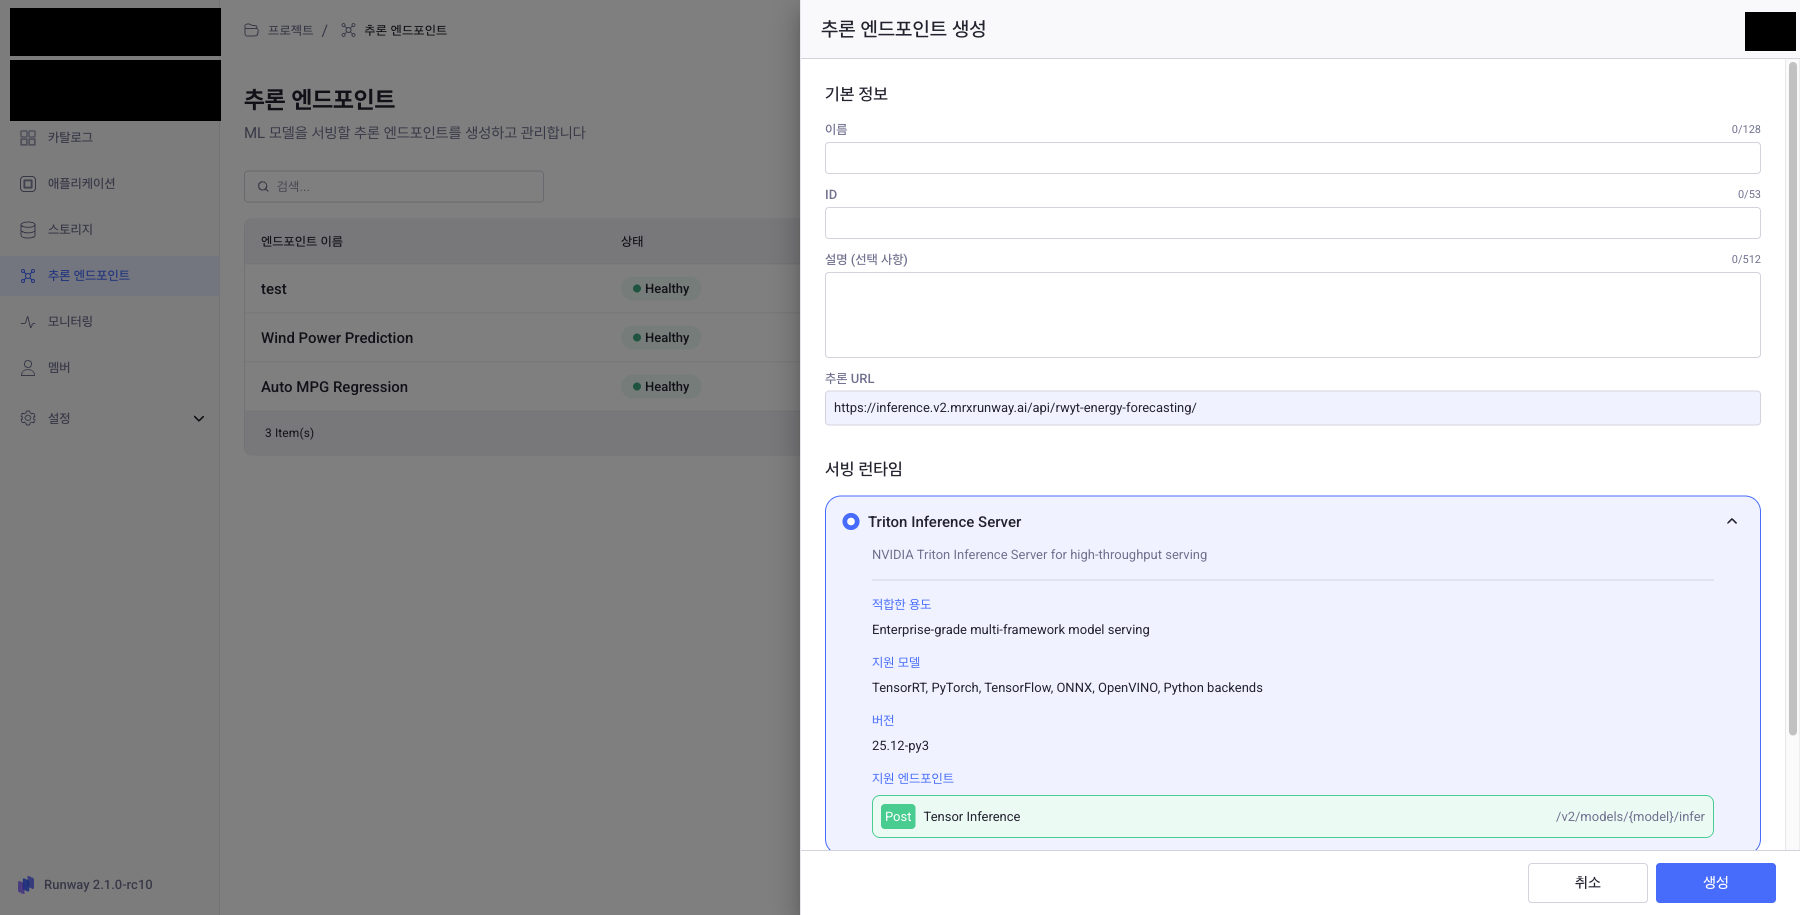
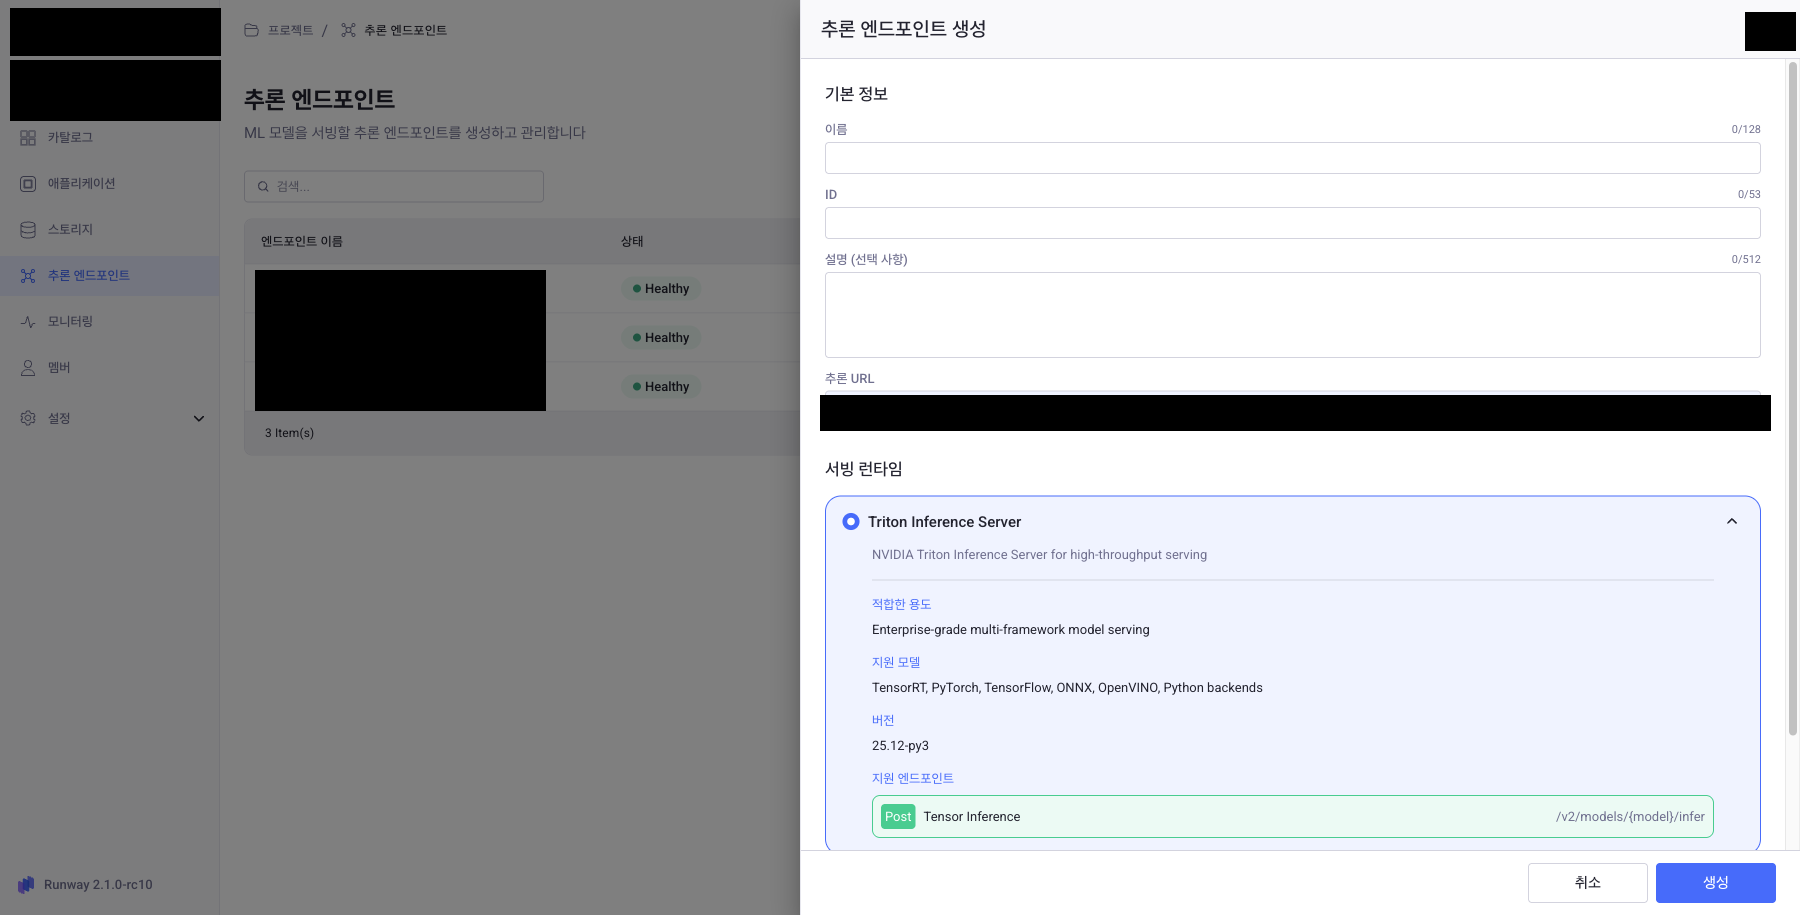
fix(wind-power): address PR #13 review — repo-root cleanup + 06 PNG re-mask + WALKTHROUGH 3-var flow
Must-fix 3건:
1. 06-inference-endpoint-create-form.png: 추론 URL 필드에 inference.v2.mrxrunway.ai/api/rwyt-energy-forecasting/ 노출돼있어 재마스킹 + 좌측 백그라운드 엔드포인트 이름 컬럼도 마스킹
2. 저장소 루트 .gitea/workflows/{build-image,sync-dag}.yml 삭제 — 사용되지 않는 wind_power_prediction_v2.py 참조하는 stale orphan, gitea.v2.mrxrunway.ai 도메인 노출. 튜토리얼 디렉토리에 별도 워크플로우가 이미 있음
3. WALKTHROUGH §5-3 갱신 — README §5 와 일치하도록 "두 곳" → "세 줄" 흐름 반영
   - .env / DAG 코드 블록에 RUNWAY_BASE_DOMAIN 추가
   - DEPLOYMENT_ID 기본값 wind-power-v1 → default 정정
   - §5-3 ③: 옛 API_BASE 수동편집 안내 → "수정 불필요 (자동 도출)" 로 재작성

Should-fix:
- 저장소 루트 README.md / CLAUDE.md 의 keycloak.v2.mrxrunway.ai / mlflow.v2.mrxrunway.ai → <your-runway-domain> placeholder
- WALKTHROUGH 143줄: "s.여기에_토큰_붙여넣기" → "s.<your-openbao-token>" (다른 placeholder 와 일관성)

Changed region(s): [[0.4356, 0.4284, 0.9956, 0.4896], [0.1244, 0.2754, 0.3111, 0.459]]

diff --git a/tutorials/wind-power-prediction-with-xgboost/WALKTHROUGH.md b/tutorials/wind-power-prediction-with-xgboost/WALKTHROUGH.md
@@ -140,7 +140,7 @@ python -m venv .venv && source .venv/bin/activate && pip install boto3 hvac
 > 토큰이 살아있는지 빠르게 확인:
 > ```bash
 > # 확인할 토큰을 환경변수로 세팅 (따옴표 안에 붙여넣기)
-> export OPENBAO_TOKEN="s.여기에_토큰_붙여넣기"
+> export OPENBAO_TOKEN="s.<your-openbao-token>"
 >
 > curl -s -o /dev/null -w "%{http_code}\n" \
 >   -H "X-Vault-Token: $OPENBAO_TOKEN" \
@@ -248,9 +248,9 @@ cp README.md WALKTHROUGH.md ~/workspace/wind-power-prediction/
 cd ~/workspace && rm -rf reference
 ```
 
-### 5-3. 본인 환경 값 설정 — **두 곳만** 수정
+### 5-3. 본인 환경 값 설정 — **세 줄만** 수정
 
-설정이 `config.py` + `.env` + DAG 상단 2줄로 중앙화돼 있어서, 사용자가 손댈 곳은 **딱 2곳**입니다. 나머지 값(`NAMESPACE`, `IMAGE`, `EXPERIMENT_NAME`, `MODEL_NAME`, `S3_ARTIFACT_PREFIX` 등)은 `RUNWAY_PROJECT_ID` 한 값에서 자동 파생됩니다.
+설정이 `config.py` + `.env` + DAG 상단 3줄로 중앙화돼 있어서, 사용자가 손댈 값은 **`RUNWAY_PROJECT_ID` + `RUNWAY_BASE_DOMAIN` + `OPENBAO_TOKEN` 3개**입니다. 나머지 값(`NAMESPACE`, `IMAGE`, 모든 서비스 URL, `EXPERIMENT_NAME`, `MODEL_NAME`, `S3_ARTIFACT_PREFIX` 등)은 이 3개에서 자동 파생됩니다.
 
 #### ① `.env` 생성 (IDE 스크립트용)
 
@@ -264,41 +264,38 @@ cp .env.example .env
 `.env` 를 열어 아래 값 설정:
 
 ```dotenv
-RUNWAY_PROJECT_ID=your-project-id          # 본인 프로젝트 ID
-OPENBAO_TOKEN=<3-2 에서 복사한 OpenBao 서비스 토큰>
+RUNWAY_PROJECT_ID=your-project-id              # 본인 프로젝트 ID
+RUNWAY_BASE_DOMAIN=your-runway-domain.com      # Runway 베이스 도메인 (예: v2.example.com)
+OPENBAO_TOKEN=s.<3-2 에서 복사한 OpenBao 서비스 토큰>
 
 # 추론 테스트는 9단계(모델 배포) 이후 채움. 지금은 비워둬도 됨.
 INFERENCE_ENDPOINT=
-DEPLOYMENT_ID=wind-power-v1
+DEPLOYMENT_ID=default
 ```
 
 > `.env` 는 `.gitignore` 에 포함되어 있어 Gitea 로 커밋되지 않습니다. IDE 스크립트 (`download_model.py`, `test_inference.py`) 가 `config.py` 를 통해 자동 로드합니다.
 
 #### ② DAG 파일 상수 (`wind_power_prediction_v4.py`)
 
-파일 상단 [사용자 설정] 섹션의 **2줄만** 수정:
+파일 상단 [사용자 설정] 섹션의 **3줄만** 수정:
 
 ```python
-RUNWAY_PROJECT_ID = "your-project-id"       # ← 본인 프로젝트 ID
-OPENBAO_TOKEN     = "<3-2 의 OpenBao 서비스 토큰>"
+RUNWAY_PROJECT_ID  = "your-project-id"               # ← 본인 프로젝트 ID
+RUNWAY_BASE_DOMAIN = "your-runway-domain.com"        # ← Runway 베이스 도메인
+OPENBAO_TOKEN      = "s.<3-2 의 OpenBao 서비스 토큰>"
 ```
 
-그 아래 [파생값] 섹션은 **수정 불필요** — f-string 으로 `NAMESPACE`, `IMAGE`, `OPENBAO_NAMESPACE` 등이 자동 계산됩니다.
+그 아래 [파생값] 섹션은 **수정 불필요** — f-string 으로 `NAMESPACE`, `IMAGE`, `OPENBAO_URL`, `OPENBAO_NAMESPACE` 등이 자동 계산됩니다 (`gitea.{BASE_DOMAIN}/...`, `https://openbao.{BASE_DOMAIN}` 형태).
 
 > **왜 DAG 는 `.env` 를 못 쓰나?** DAG 는 `airflow-dags` 저장소로 sync 되어 Airflow 스케줄러 Pod 에서 실행됩니다. 사용자의 `.env` 파일은 거기 없으므로 DAG 상단에 직접 하드코딩해야 합니다. 대신 주입되는 env 는 최소한 (`RUNWAY_PROJECT_ID`, `OPENBAO_TOKEN`, `DAG_RUN_ID`) 으로 줄어 있습니다.
 
 > **`RUNWAY_API_KEY` 는?** 코드에서 완전히 빠졌습니다 — `task_runner.py` 와 `test_inference.py` 가 OpenBao `secret/wind-power` 의 `runway_api_key` 값을 런타임에 조회합니다 (5-4 참조).
 
-#### ③ `.gitea/workflows/sync-dag.yml` (조직명이 다른 경우에만)
+#### ③ `.gitea/workflows/` (수정 불필요 — 자동 도출)
 
-`API_BASE` 안의 조직명이 본인 Gitea 조직과 일치해야 합니다:
-```yaml
-# .gitea/workflows/sync-dag.yml 내 API_BASE 라인
-API_BASE="https://gitea.<your-runway-domain>/api/v1/repos/your-project-id/airflow-dags"
-#                                                   └── 여기를 본인 조직명으로
-```
-> 튜토리얼 예시대로 `your-project-id` 조직이면 수정 불필요.
-> `build-image.yml` 은 Secrets 값(`IMAGE_TAG`)을 쓰므로 워크플로우 파일 자체 수정은 불필요.
+`build-image.yml` 은 `IMAGE_TAG` Secret 에서 호스트를 자동 추출하고, `sync-dag.yml` 은 현재 저장소의 `github.server_url` + `github.repository_owner` 컨텍스트에서 Gitea 호스트와 조직명을 자동 도출합니다. **YAML 자체는 손댈 필요 없음.**
+
+> 단, **`airflow-dags` 가 같은 조직 안에 있다는 전제**입니다 (Runway 기본 구성). 다른 조직에 있으면 `sync-dag.yml` 의 `DAGS_REPO=` 라인을 본인 환경에 맞게 수정.
 
 ### 5-4. OpenBao 에 시크릿 등록
 

diff --git a/CLAUDE.md b/CLAUDE.md
@@ -37,6 +37,6 @@ load_model ─┘
 
 ## Runway v2 Infrastructure Context
 
-- **Keycloak**: `keycloak.v2.mrxrunway.ai` — MLflow 인증용 OIDC 토큰 발급
-- **MLflow**: 클러스터 내부 URL(`runway-exp-mlflow-tracking-server.runway-applications.svc.cluster.local`)로 접근하되, Host 헤더를 외부 도메인(`mlflow.v2.mrxrunway.ai`)으로 설정
+- **Keycloak**: `keycloak.<runway-base-domain>` — MLflow 인증용 OIDC 토큰 발급
+- **MLflow**: 클러스터 내부 URL(`runway-exp-mlflow-tracking-server.runway-applications.svc.cluster.local`)로 접근하되, Host 헤더를 외부 도메인(`mlflow.<runway-base-domain>`)으로 설정
 - **PVC**: `/mnt/model-registry` — 모델 아티팩트 영구 저장소

diff --git a/README.md b/README.md
@@ -35,6 +35,6 @@ runway-v2-tutorial/
 
 ## 공통 인프라 (Runway v2)
 
-- **Keycloak**: `keycloak.v2.mrxrunway.ai` — OIDC 토큰 발급
-- **MLflow**: 클러스터 내부 URL 접근 + Host 헤더를 `mlflow.v2.mrxrunway.ai` 로 패치
+- **Keycloak**: `keycloak.<your-runway-domain>` — OIDC 토큰 발급
+- **MLflow**: 클러스터 내부 URL 접근 + Host 헤더를 `mlflow.<your-runway-domain>` 로 패치
 - **PVC**: `/mnt/model-registry` — 모델 아티팩트 영구 저장소